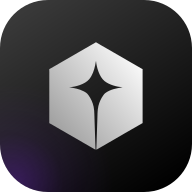
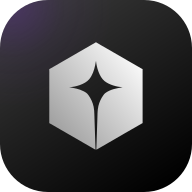
feat(marca): brilho roxo do icone no alto a esquerda, mais suave

Changed region(s): [[0.0, 0.7188, 0.3125, 1.0], [0.0312, 0.0, 0.2188, 0.1875]]

diff --git a/public/sw.js b/public/sw.js
@@ -23,11 +23,11 @@
  * engano — o CACHE abaixo é limpo no activate de qualquer forma.
  */
 
-/* Sobe a cada troca de ícone (v2: logo nova; v3: fundo em degradê preto; v4: brilho roxo).
+/* Sobe a cada troca de ícone (v2: logo nova; v3: fundo em degradê preto; v4: brilho roxo; v5: brilho no alto, mais suave).
    Os ícones vêm do aparelho primeiro, então trocar o desenho sem trocar o
    nome do cache deixaria o antigo para sempre; o activate apaga todo cache
    com nome diferente deste. Ver scripts/gerar-icones.mjs. */
-const CACHE = "mb-v4";
+const CACHE = "mb-v5";
 const OFFLINE = "/offline.html";
 
 /*

diff --git a/public/offline.html b/public/offline.html
@@ -62,7 +62,7 @@
         margin: 0 auto 18px;
         border-radius: 15px;
         background:
-          radial-gradient(circle at 7% 96%, rgba(126, 40, 231, 0.34), rgba(126, 40, 231, 0.08) 26%, transparent 52%),
+          radial-gradient(circle at 7% 4%, rgba(126, 40, 231, 0.22), rgba(126, 40, 231, 0.05) 26%, transparent 52%),
           linear-gradient(150deg, #3a3a3a, #000000);
       }
       .marca svg {
